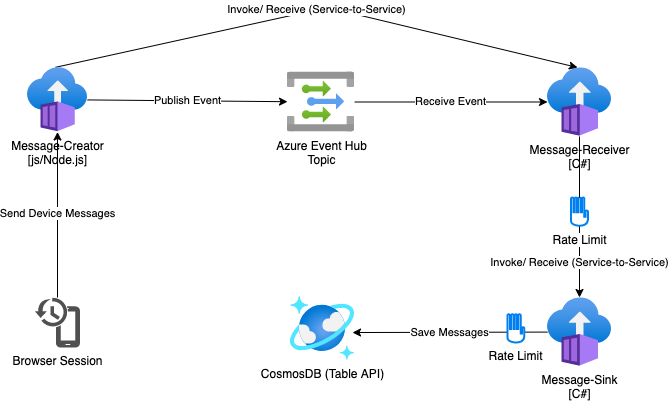
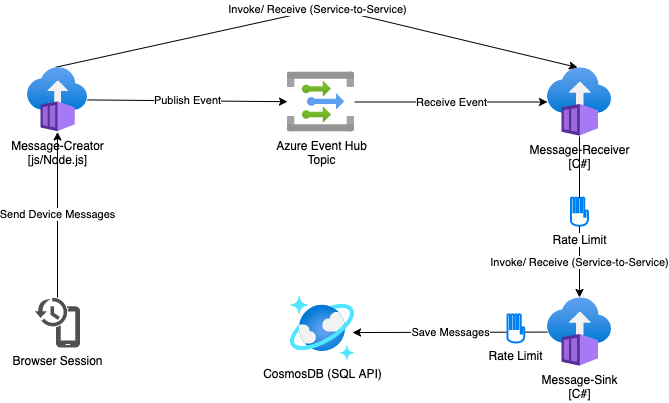
moved over to cosmosdb sql api, closes #6

diff --git a/src/Message.Sink/MessageCosmosSqlStorageService.cs b/src/Message.Sink/MessageCosmosSqlStorageService.cs
@@ -1,0 +1,158 @@
+using Microsoft.Azure.Cosmos;
+
+public class MessageCosmosSqlStorageService : IMessageStorageService
+{
+    private readonly ILogger<MessageCosmosSqlStorageService> _logger;
+
+    private CosmosClient _cosmosClient;
+
+    private static string DatabaseName = "messages";
+    private static string ContainerName = "data";
+
+    public MessageCosmosSqlStorageService(ILogger<MessageCosmosSqlStorageService> logger, CosmosClient cosmosClient)
+    {
+        _logger = logger;
+        _cosmosClient = cosmosClient;
+         AsyncHelper.RunAsync(async () => {
+               await CreateIfNotExistsAsync(MessageCosmosSqlStorageService.DatabaseName, MessageCosmosSqlStorageService.ContainerName);
+            });
+    }
+
+    public async void Initialize(string tableName)
+    {
+       AsyncHelper.RunAsync(async () => {
+               await CreateIfNotExistsAsync(MessageCosmosSqlStorageService.DatabaseName, MessageCosmosSqlStorageService.ContainerName);
+            });
+    }
+
+    public async Task<bool> CreateIfNotExistsAsync(string databaseName, string containerName)
+    {
+        _logger.LogInformation("Creating Database");
+        try
+        {
+            var db = await _cosmosClient.CreateDatabaseIfNotExistsAsync(databaseName);
+            if ( db.StatusCode == System.Net.HttpStatusCode.Created )
+            {
+                ContainerProperties containerProperties = new ContainerProperties()
+                {
+                    Id = containerName,
+                    PartitionKeyPath = "/id",
+                    IndexingPolicy = new IndexingPolicy()
+                    {
+                        Automatic = false,
+                        IndexingMode = IndexingMode.Lazy,
+                    }
+                };
+
+                var container = await db.Database.CreateContainerIfNotExistsAsync(containerProperties);
+            }
+        }
+        catch (System.Exception ex)
+        {
+            _logger.LogError(ex, ex.Message);
+        }                
+
+        return await Task.FromResult<bool>(true);
+    }
+
+     public async Task<DeviceMessage> GetById(Container container, string messageId)
+    {
+        DeviceMessage result = null;
+
+        try
+        {
+            var query = new QueryDefinition($"select * from c where c.id = '{messageId}'");
+
+            var iterator = container.GetItemQueryIterator<DeviceMessage>(
+                query,
+                requestOptions: new QueryRequestOptions
+                {
+                    PartitionKey = new PartitionKey(messageId)
+                });
+
+            if (iterator.HasMoreResults)
+            {
+                var item = await iterator.ReadNextAsync();
+                result = item.FirstOrDefault();
+            }
+        }
+        catch (CosmosException ex) when (ex.StatusCode == System.Net.HttpStatusCode.NotFound)
+        {
+            return null;
+        }
+        return result;
+    }
+
+    public async Task<MessageStatus> SaveMessage(DeviceMessage message)
+    {
+        _logger.LogTrace($"Saving message in partition {message.Name} with rowkey {message.Id}");
+
+        MessageStatus status = MessageStatus.Failed;
+        ItemResponse<DeviceMessage> response = null;
+
+        if (message == null || string.IsNullOrWhiteSpace(message.Name) || string.IsNullOrWhiteSpace(message.Id)) 
+        {   
+            _logger.LogCritical("Message data was null");
+            return status;
+        }
+
+        try
+        {
+            var container = _cosmosClient.GetContainer(MessageCosmosSqlStorageService.DatabaseName, MessageCosmosSqlStorageService.ContainerName);
+
+            if (container == null){
+                _logger.LogCritical("Container was null");
+                return MessageStatus.Failed;
+            }
+
+            var existingItem = await GetById(container, message.Id);
+
+            if (existingItem != null){
+                response = await container.UpsertItemAsync<DeviceMessage>(message, new PartitionKey(message.Id), new PatchItemRequestOptions());
+            }
+            else{
+                 response = await container.CreateItemAsync<DeviceMessage>(message, new PartitionKey(message.Id));
+            }          
+
+            _logger.LogTrace("Insert of item consumed {0} request units", response.RequestCharge);
+
+            if (response == null){
+                _logger.LogCritical("Response was null");
+                return MessageStatus.Failed;
+            }
+
+            if (response.StatusCode == System.Net.HttpStatusCode.Created){
+                status = MessageStatus.Ok;
+                _logger.LogDebug($"Saved message in partition {message.Name} with rowkey {message.Id}");
+            }
+            else if (response.StatusCode == System.Net.HttpStatusCode.OK){
+                status = MessageStatus.Ok;
+                _logger.LogDebug($"Updated message in partition {message.Name} with rowkey {message.Id}");
+            }
+            else{
+                status = MessageStatus.Failed;
+                _logger.LogInformation($"Save of message in partition {message.Name} with rowkey {message.Id} resulted in {response.StatusCode}");
+            }
+        
+        }
+        catch (CosmosException ex) when (ex.StatusCode == System.Net.HttpStatusCode.TooManyRequests)
+        {
+            status = MessageStatus.Failed;
+            _logger.LogInformation("Insert of item consumed {0} request units", response.RequestCharge);
+        }
+        catch (CosmosException ex)
+        {
+            status = MessageStatus.Failed;
+            _logger.LogError(ex.Message);
+            _logger.LogInformation("Insert of item consumed {0} request units", response.RequestCharge);
+        }
+        catch (System.Exception ex)
+        {
+            status = MessageStatus.Failed;
+            _logger.LogError(ex, ex.Message);
+        }
+
+        
+        return status;
+    }
+}

diff --git a/src/Message.Sink/MessageCosmosTableStorageService.cs b/src/Message.Sink/MessageCosmosTableStorageService.cs
@@ -1,27 +1,27 @@
 using Microsoft.Azure.Cosmos;
 
-public class MessageCosmosStorageService : IMessageStorageService
+public class MessageCosmosTableStorageService : IMessageStorageService
 {
-    private readonly ILogger<MessageCosmosStorageService> _logger;
+    private readonly ILogger<MessageCosmosTableStorageService> _logger;
 
     private CosmosClient _cosmosClient;
 
     private static string TableName = "messages";
     private static string DatabaseName = "TablesDB";
 
-    public MessageCosmosStorageService(ILogger<MessageCosmosStorageService> logger, CosmosClient cosmosClient)
+    public MessageCosmosTableStorageService(ILogger<MessageCosmosTableStorageService> logger, CosmosClient cosmosClient)
     {
         _logger = logger;
         _cosmosClient = cosmosClient;
          AsyncHelper.RunAsync(async () => {
-               await CreateIfNotExistsAsync(MessageCosmosStorageService.DatabaseName, MessageCosmosStorageService.TableName);
+               await CreateIfNotExistsAsync(MessageCosmosTableStorageService.DatabaseName, MessageCosmosTableStorageService.TableName);
             });
     }
 
     public async void Initialize(string tableName)
     {
        AsyncHelper.RunAsync(async () => {
-               await CreateIfNotExistsAsync(MessageCosmosStorageService.DatabaseName, MessageCosmosStorageService.TableName);
+               await CreateIfNotExistsAsync(MessageCosmosTableStorageService.DatabaseName, MessageCosmosTableStorageService.TableName);
             });
     }
 
@@ -64,7 +64,7 @@ public class MessageCosmosStorageService : IMessageStorageService
 
         try
         {
-            var container = _cosmosClient.GetContainer(MessageCosmosStorageService.DatabaseName, MessageCosmosStorageService.TableName);
+            var container = _cosmosClient.GetContainer(MessageCosmosTableStorageService.DatabaseName, MessageCosmosTableStorageService.TableName);
 
             if (container == null){
                 _logger.LogCritical("Container was null");

diff --git a/src/Message.Sink/Program.cs b/src/Message.Sink/Program.cs
@@ -44,19 +44,22 @@ builder.Services.AddInMemoryRateLimiting();
 builder.Services.AddSingleton<IRateLimitConfiguration, RateLimitConfiguration>();
 
 
-// builder.Services.AddSingleton( 
-//     s => {
-//         return new Microsoft.Azure.Cosmos.Fluent.CosmosClientBuilder(builder.Configuration.GetConnectionString("CosmosApi"))
-//             .Build();
-//     }
-// );
+builder.Services.AddSingleton( 
+    s => {
+        return new Microsoft.Azure.Cosmos.Fluent.CosmosClientBuilder(builder.Configuration.GetConnectionString("CosmosApi"))
+        .WithSerializerOptions( new Microsoft.Azure.Cosmos.CosmosSerializationOptions( ){
+            PropertyNamingPolicy = Microsoft.Azure.Cosmos.CosmosPropertyNamingPolicy.CamelCase               
+        })
+            .Build();
+    }
+);
 
-builder.Services.AddAzureClients( b => { 
-    b.AddTableServiceClient(builder.Configuration.GetConnectionString("CosmosTableApi"));
-});
+// builder.Services.AddAzureClients( b => { 
+//     b.AddTableServiceClient(builder.Configuration.GetConnectionString("CosmosTableApi"));
+// });
 
-// builder.Services.AddSingleton<IMessageStorageService, MessageCosmosStorageService>();
-builder.Services.AddSingleton<IMessageStorageService, MessageStorageService>();
+builder.Services.AddSingleton<IMessageStorageService, MessageCosmosSqlStorageService>();
+// builder.Services.AddSingleton<IMessageStorageService, MessageStorageService>();
 
 var app = builder.Build();
 

diff --git a/src/Message.Receiver/DeviceMessage.cs b/src/Message.Receiver/DeviceMessage.cs
@@ -1,9 +1,16 @@
+using System.Text.Json.Serialization;
 public class DeviceMessage
 {
+    [JsonPropertyName("id")]
     public string Id { get; set; }
+    [JsonPropertyName("name")]
     public string Name { get; set; }
+    [JsonPropertyName("temperature")]
     public int Temperature { get; set; }
+    [JsonPropertyName("humidity")]
     public int Humidity { get; set; }
+    [JsonPropertyName("message")]
     public string Message { get; set; }
+    [JsonPropertyName("timestamp")]
     public string Timestamp { get; set; }
 }

diff --git a/src/Message.Sink/DeviceMessage.cs b/src/Message.Sink/DeviceMessage.cs
@@ -1,9 +1,16 @@
+using System.Text.Json.Serialization;
 public class DeviceMessage
 {
+    [JsonPropertyName("id")]
     public string Id { get; set; }
+    [JsonPropertyName("name")]
     public string Name { get; set; }
+    [JsonPropertyName("temperature")]
     public int Temperature { get; set; }
+    [JsonPropertyName("humidity")]
     public int Humidity { get; set; }
+    [JsonPropertyName("message")]
     public string Message { get; set; }
+    [JsonPropertyName("timestamp")]
     public string Timestamp { get; set; }
 }

diff --git a/src/Message.Sink/MessageStorageService.cs b/src/Message.Sink/MessageStorageService.cs
@@ -56,6 +56,7 @@ public class MessageStorageService : IMessageStorageService
 
         if (message == null || string.IsNullOrWhiteSpace(message.Name) || string.IsNullOrWhiteSpace(message.Id)) 
         {
+            _logger.LogCritical("Message data was null");
             return status;
         }
 

diff --git a/README.md b/README.md
@@ -17,7 +17,7 @@ High Level Architecture:
 ## Deploy Azure resources
 
 ```
-RESOURCE_GROUP="reliabl5"
+RESOURCE_GROUP="reliabl6"
 GITHUB_REPO_OWNER="denniszielke"
 LOCATION="northeurope"
 
